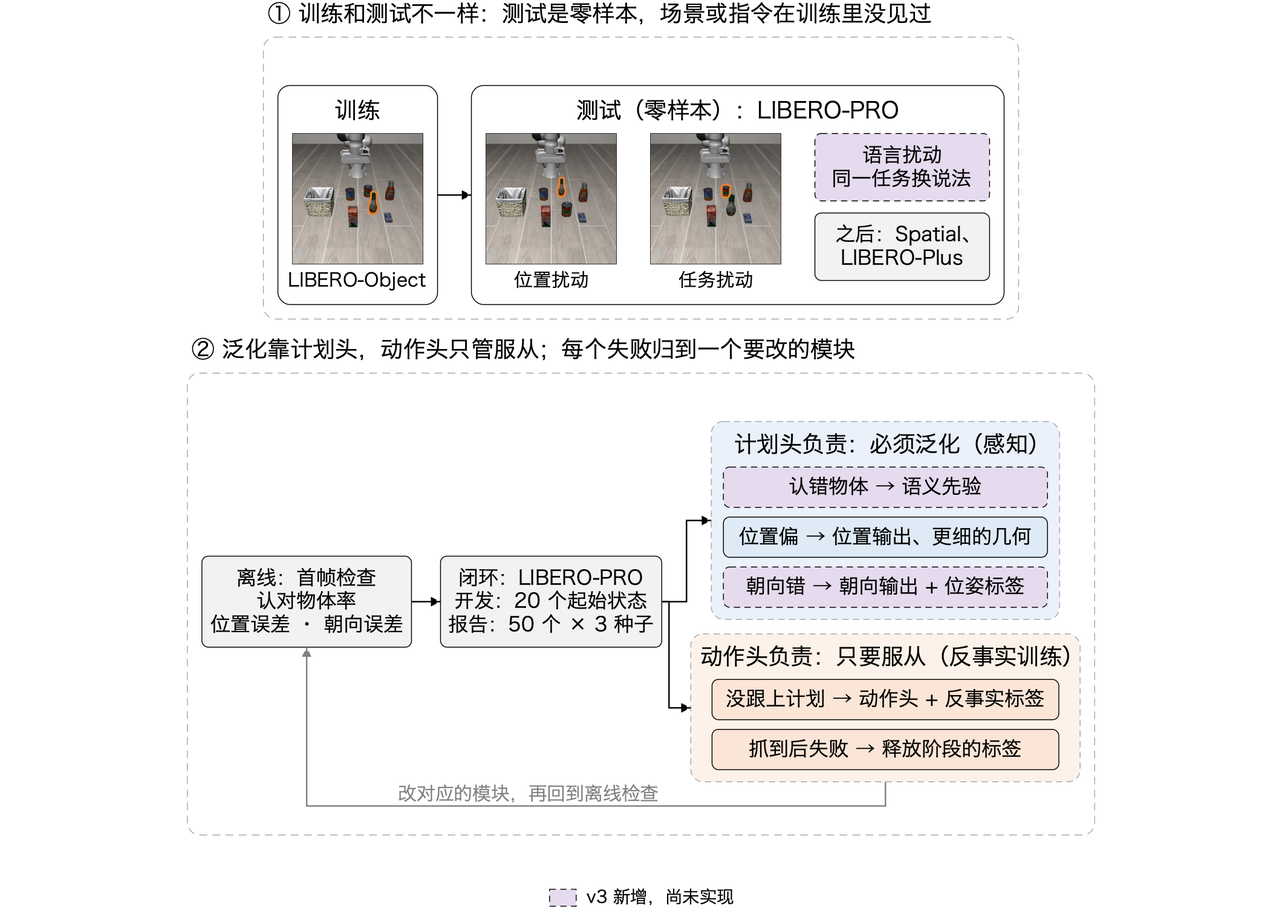
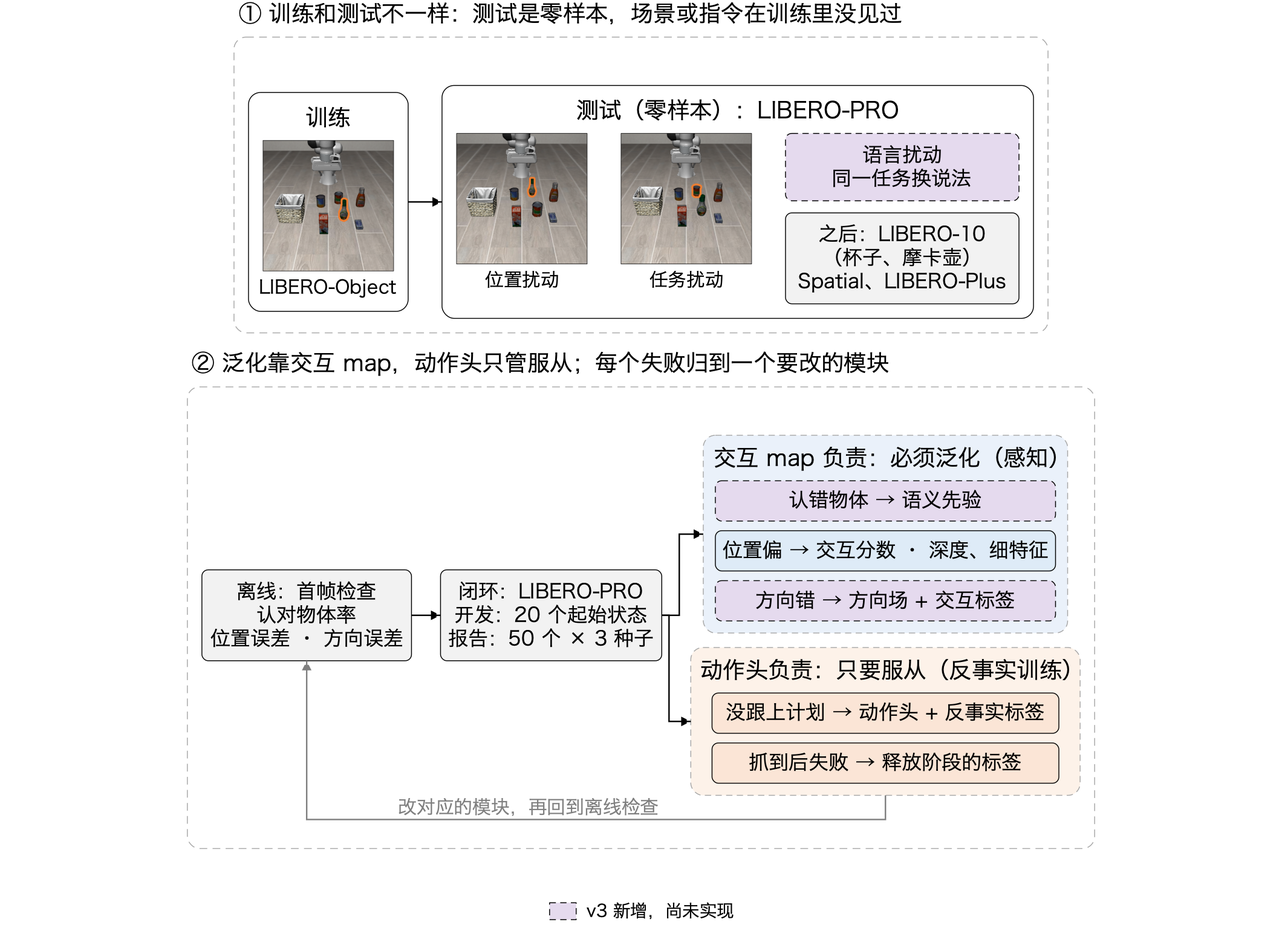
docs: put the interaction affordance map at the centre of Pipeline v3
The project lead confirmed the revision on 19 Nov. The plan head becomes an interaction affordance map head
that is learnt from gripper-object interaction and gives an interaction score, depth and a direction field
(the gripper closing direction). Contact and gripper orientation are decoded from the map instead of a
separate 6D regression. Labels come from demonstration grasps (L1) and from per-category canonical maps
projected by object pose (L2); object poses are used for labels and evaluation only, never as model input.
The first version is a 2D map, gripper orientation only; LIBERO-10 is added for objects with handles. The
experiment order becomes E0, E1 and L together, then E2 to E7. The three figures are redrawn to match.

diff --git a/docs/vla/2026-11-19_VLA_branch_Pipeline_v3.md b/docs/vla/2026-11-19_VLA_branch_Pipeline_v3.md
@@ -1,89 +1,90 @@
-# VLA Pipeline v3：语义 + 位置 + 朝向的 affordance 计划
+# VLA Pipeline v3：带方向的交互 affordance map + 服从它的动作头
 
-**状态：已确认（2026-11-19，项目负责人同意第 10 节的 6 条）。**
+**状态：已确认。**
+
+- 2026-11-19：项目负责人同意第 10 节的 6 条。
+- 同日晚：项目负责人确认修订，改为以交互 affordance map 为核心（第 10 节的 5 条）。
+
+**这份文件的作用：**
 
 - 它是本方向方法和实验的依据。之后的实验按第 5 节的顺序和通过标准做；要改方向，先改这份文件。
-- 三张图：测试时的模型（第 2 节）、训练（第 3 节）、泛化和诊断（第 4 节）。紫色虚线框是 v3 新增、还没实现的部分；图的规格和截图来源见[图的说明](../../report/media/pipeline_overview/README.md)。
-- 它取代 [Pipeline v2](2026-11-10_VLA_branch_Pipeline_v2.md) 的方法部分。以下内容继续有效：
-  - v2 的 benchmark、协议和算力部分；
-  - [README](README.md) 里 11-12 到 11-16 的决定。
+- 它取代 [Pipeline v2](2026-11-10_VLA_branch_Pipeline_v2.md) 的方法部分。v2 的 benchmark、协议和算力部分，以及 [README](README.md) 里 11-12 到 11-16 的决定，继续有效。
 - 它和 `docs/pipeline.md` 里记忆方向的"Pipeline v3"无关。
 
-## 1. 论点和泛化思路
+**三张图：**
+
+- 测试时的模型（第 2 节）；
+- 训练（第 3 节）；
+- 泛化和诊断（第 4 节）。
+
+图里紫色虚线框是 v3 新增、还没实现的部分。图的规格和截图来源见[图的说明](../../report/media/pipeline_overview/README.md)。
+
+## 1. 定位和泛化思路
 
 **论点不变：** affordance 只有在动作被训练成服从它时才有用（2026-11-12 的决定）。
 
-**v3 改的是 affordance 的内容。** 原来只有"抓哪里"，现在扩成三件事：
+**v3 的核心是带方向的交互 affordance map。** 这张 map 从夹爪和一类物体的交互中学来：
 
-- 认对哪个：语义；
-- 抓哪里：位置；
-- 夹爪怎么摆：朝向。
+- 它说明夹爪在哪里接触这个物体（交互分数）；
+- 也说明以什么方向夹（方向场）。
+
+物体不是对称的球时，比如杯子有把手，这张 map 本身就带着方向。计划（接触点和夹爪位姿）都从 map 解码出来，不另外回归。动作头只服从计划。
 
 **泛化的分工：**
 
-- 训练只用标准 LIBERO；测试是零样本，用 LIBERO-PRO 和 LIBERO-Plus。
-- **计划头负责泛化**：在新画面里认对物体、找准位置、给出朝向。这是感知问题。
-- **动作头只负责服从**：计划在哪就去哪，朝向是什么就转成什么。这一点靠反事实训练保证。
-- 因此**语义信息只加在计划头**。动作头不加语义模块；加了语义模块的动作头只作对照 F（第 6 节）。
+- 训练只用标准 LIBERO，测试零样本，用 LIBERO-PRO 和 LIBERO-Plus。
+- **交互 map 负责泛化。** 它要在新画面里认对物体、找准接触位置、给出方向，这是感知问题。
+- **动作头只负责服从。** 计划在哪就去哪，朝向是什么就转成什么，这一点靠反事实训练保证。
+- 因此，语义信息和方向信息都放在 map 这一侧，动作头不加这类模块。语义只在对照 F 里加到动作头（第 6 节）。
 
-每类失败对应一个模块，诊断和改进都按这张表走：
+**每类失败对应一个模块：**
 
-| 失败 | 归类 | 对应模块 |
+| 失败 | 归到 | 对应模块 |
 |---|---|---|
 | 指向了别的物体 | 语义 | M1 语义先验 |
-| 物体对，位置偏（格子选错、格内偏移不准、深度不准） | 几何 | M2 计划头；必要时 M2b 更细的几何特征 |
-| 位置对，夹爪朝向不对（抓滑、碰倒） | 位姿 | M2 的朝向输出 + M5 的位姿标签 |
-| 计划对，动作没跟上 | 服从 | M4 动作头 + M5 的反事实标签 |
-| 抓到之后，搬运或放置失败 | 后段 | 释放阶段的计划和标签（已有，继续做） |
+| 物体对，接触位置偏 | 几何 | M2 交互 map 的分数和深度 |
+| 位置对，夹爪方向不对（抓滑、碰倒） | 方向 | M2 的方向场 + L 的交互标签 |
+| 计划对，动作没跟上 | 服从 | M4 动作头 + M5 反事实标签 |
+| 抓到之后，搬运或放置失败 | 后段 | 释放阶段的计划和标签（已有，继续） |
 
 ## 2. 管线
 
 ![v3 测试时的模型](../../report/media/pipeline_overview/v3_model.png)
 
-```
-画面 + 指令 ─► M0 VLM（冻结）─┬─► M1 语义先验：指令 token × 64 个格子 → 8×8 语义图
-                              │                 │ 加到格子打分上
-                              └─► M2 计划头 ◄────┘
-                                    每格：分数、格内偏移、深度、夹爪朝向（新）
-                                    全局：事件（抓 / 放 / 无）、接近方向
-                                         │ 最好的格子 + 相机标定 → 3D 接触点 + 朝向
-                                         ▼
-                                    M3 计划向量（10 → 16 维），计划保持（HOLD=1）
-                                         ▼
-                      VLM 特征 ─► M4 动作头（flow-matching DiT，LoRA）
-                                         ▼
-                                    7 维动作（Δ位置、Δ旋转、夹爪）→ OSC 控制器（逆运动学）
-
-训练标签：示范 → M5 按物体类别的抓取位姿
-          + 反事实（挪位置 / 换物体 / 转朝向），平移和旋转一起改写
-```
-
 | 模块 | 内容 | 状态 | 代码 |
 |---|---|---|---|
-| M0 VLM | starVLA QwenPI 官方权重，Qwen3-VL-4B。诊断和消融时冻结，主对比时全量微调 | 不变 | 不变 |
-| M1 语义先验 | 指令 token 和智能体视角 64 个格子 token 的余弦相似度，得到一张 8×8 语义图。这是 SemanticVLA ID-Pruner 里"语言 → 图像"的那一路。语义图乘一个从 0 开始学的系数，加到格子打分上。先用全部指令 token，不手工挑名词 | 新增 | 新文件 `affordance_vla/heads/semantic_prior.py`，`plan_grid.py` 加开关 |
-| M2 计划头 | 现有的 8×8 格子头，每格多输出一个夹爪朝向（6D 旋转表示） | 修改 | `affordance_vla/heads/plan_grid.py` |
-| M2b 更细的几何 | 16×16 格子，或者加 DINOv2 特征（SemanticVLA 里 DINOv2 那一路）。只在诊断说"位置偏"为主时才做 | 可选 | 待定 |
-| M3 计划向量 | 加上目标朝向（相对当前夹爪，6D），从 10 维变成 16 维。PlanEncoder 的输入变长，其余不变。计划保持不变 | 修改 | `affordance_vla/plan/plan_input.py`、`heads/plan_policy.py` |
-| M4 动作头 | 结构不变。旋转（动作第 3–5 维）单独报误差，必要时单独加权。这借了 SemanticVLA 把平移、旋转、夹爪分开的思路 | 基本不变 | `heads/plan_policy.py` |
-| M5 标签 | 抓取时刻夹爪相对物体的位姿，按物体类别汇总。反事实在 15 日的标签（s10）上加"转朝向"，动作的平移和旋转一起改写 | 修改 | `plan/plan_input.py`（ContactOffsets 加朝向）、`plan/caw_labels.py`、`training/plan_samples.py`、`training/counterfactual.py` |
+| M0 VLM | starVLA QwenPI 的官方权重，底座是 Qwen3-VL-4B。诊断和消融时冻结，主对比时全量微调 | 不变 | 不变 |
+| M1 语义先验 | 指令 token 和格子 token 的余弦相似度（借鉴 SemanticVLA 的 ID-Pruner），得到一张语义图，乘一个从 0 开始学的系数，加到交互分数上。指令方向的合并方式（求和还是取最大值）在 E1 里不训练、直接比较后选定 | 新增 | `affordance_vla/heads/semantic_prior.py` |
+| M2 交互 map 头 | 输入：VLM 各层的特征，以及更细的视觉特征。更细的特征先用 VLM 视觉编码器在合并之前的那一层（每边 16 块，不加新模型），不够再加 DINOv2。每个点输出交互分数、方向场（夹爪闭合方向，用 cos2θ 和 sin2θ 表示，所以转 180° 自动算同一种抓法）、深度。全局输出事件和接近方向，和现在一样 | 修改：现有的 8×8 格子头是它的第一版 | `affordance_vla/heads/plan_grid.py` 扩展，或新文件 `interaction_map.py` |
+| 解码 | 接触点：map 的峰值，加上深度和相机标定，得到 3D 位置。夹爪朝向：接近方向，加上峰值处的闭合方向。物体朝向：拿预测的 map 和这类物体的标准 map 比相似度，第二阶段再做 | 修改 | 同上 |
+| M3 计划向量 | 加上目标朝向（相对当前夹爪，6D 表示），从 10 维变成 16 维。计划保持不变 | 修改 | `affordance_vla/plan/plan_input.py`、`heads/plan_policy.py` |
+| M4 动作头 | 结构不变。旋转（动作第 3–5 维）单独报误差 | 不变 | `heads/plan_policy.py` |
+| M5 反事实标签 | 在 15 日的标签（s10）上加"转朝向"：先设绕竖直轴 ±45°，E0 之后再定。动作的平移和旋转一起改写 | 修改 | `training/plan_samples.py`、`training/counterfactual.py` |
+| L 交互 map 标签 | 见第 3 节 | 新增 | `affordance_vla/plan/interaction_labels.py` |
 | 执行 | OSC 控制器负责算关节，不训练正逆运动学 | 不变 | — |
 
-细节：
-
-- 平行夹爪绕接近轴转 180° 是同一种抓法，所以朝向损失取这两种朝向中较小的那个。
-- 新功能都做成命令行开关，默认关闭，以前的运行照样能复现（AGENTS.md）。建议的参数名：
-  - 计划头：`--semantic-prior`、`--orientation`；
-  - 动作头：`--orientation`、`--rotate-plan <度>`。
+新功能都做成命令行开关，默认关闭，这样以前的运行照样能复现（AGENTS.md）。
 
 ## 3. 训练
 
 ![v3 的训练](../../report/media/pipeline_overview/v3_training.png)
 
+### 交互 map 的标签（最关键的一步）
+
+| 来源 | 内容 | 成本 |
+|---|---|---|
+| L1 示范 | 每次抓取那一刻，用夹爪位姿（日志里已有 `ee_pos`、`ee_quat`）和物体分割图，得到"接触区域 + 闭合方向"的逐像素标签 | 只用 CPU，日志现成 |
+| L2 按类别的标准 map | 把同一类物体的所有抓取换到物体自己的坐标系里叠加，得到这类物体的标准交互 map，带方向。再按物体位姿投影到任何一帧、任何物体上。这样每一帧都有完整标签，对称物体会得到多个可行的抓法；"换物体"的反事实样本和 LIBERO-PRO 首帧也都有真值 | 要重新回放示范，补记物体位姿（只用 CPU，几个小时） |
+| L3 脚本抓取 | 换不同朝向去抓，记下成功和失败 | 暂不做 |
+
+**仿真里的物体位姿只用来生成标签和做评测，测试时不输入模型。**
+
+### 两个头的训练
+
 | 部分 | 数据 | 损失 | 规模 |
 |---|---|---|---|
-| 计划头 | `dataset10`，之后加 `dataset_spatial` | 现有：事件、格子、格内偏移、深度、接近方向。新增：朝向（测地角，取 180° 对称中较小的） | 冻结 VLM，单卡几千步 |
-| 动作头 | 同上，加反事实样本 | flow-matching 动作损失。平移和旋转的标签都按反事实改写 | 消融：LoRA，约 3100 万参数。主对比：全量微调（需要整机时段） |
+| 交互 map 头（含 M1） | `dataset10` 加上 L1、L2 的标签，之后再加 `dataset_spatial` | 交互分数：对标签分布（多个可行抓法）的交叉熵。方向场：只在接触区域内算 cos2θ、sin2θ 的 L2。深度：Huber。事件和接近方向：和现在一样 | 冻结 VLM，单卡几千步 |
+| 动作头 | 同上，加反事实样本 | flow matching 动作损失。平移和旋转的标签都按反事实改写 | 消融：LoRA，约 3100 万参数。主对比：全量微调（需要整机时段） |
 
 先在冻结的 VLM 上把各模块验证完，再做全量微调。
 
@@ -91,98 +92,129 @@
 
 ![v3 的泛化和诊断回路](../../report/media/pipeline_overview/v3_generalization.png)
 
-**离线检查**：便宜，每次改了计划头都先做。看 LIBERO-PRO 每个任务第一帧上计划头的输出：
+**离线检查**（便宜，每次改了 map 头都先做）：在 LIBERO-PRO 每个起始状态的第一帧上看 map 的输出。
 
-- **认对物体率**：最好的格子落在指令点名的物体上的比例，用仿真里物体的真值位置判断。
-- **认对时的位置误差**：沿视线方向和垂直视线方向分开算（现有的 plan audit）。
-- **抓取时刻的朝向误差**：单位是度。
+- **认对物体率：** map 的峰值落在指令点名的物体分割区域里的比例。
+- **位置误差：** 认对时沿视线方向和垂直视线方向分开算（现有的 plan audit）。
+- **闭合方向误差：** 单位是度，按 180° 对称取较小的。真值来自 L2。
+- **物体朝向误差：** 第二阶段再算。
 
-**闭环**：用 `scripts/eval/run_libero_pro_gpu.sh`。
+**闭环：** 用 `scripts/eval/run_libero_pro_gpu.sh`。
 
 - 开发阶段：LIBERO-PRO Object 的位置扰动（`_swap`）和任务扰动（`_task`），每个任务 20 个起始状态，种子 7。
-- 新加和语义相关的套件：语言扰动 `_lan`（同一个任务换一种说法）。物体扰动 `_object` 先核对套件内容再定。
-- 正式报告的数字用论文协议：50 个起始状态，种子 7、8、9。
+- 加测语言扰动 `libero_object_lan`。
+- 朝向的主要测试加一个有把手物体的任务集：LIBERO-10（杯子、摩卡壶）和它的 LIBERO-PRO 版本（`libero_10_*`）。LIBERO-Object 的物体接近对称，朝向信息不多。
+- 正式报告的数字按论文协议：50 个起始状态，种子 7、8、9。
 - 每个失败的 episode 归到第 1 节表里的一类，结果按任务报。
 
 ## 5. 实验顺序和通过标准
 
-**比较基准**是同协议下现有最好的组合：动作头 `s10_scale_own10` + 格子计划头 `g1` + 计划保持。20 个起始状态、种子 7 时：
+**比较的基准**是同协议下现有最好的组合：动作头 `s10_scale_own10` + 格子计划头 `g1` + 计划保持。20 个起始状态、种子 7 时：
 
-- 位置扰动 129/200，任务扰动 151/200；
-- 换成真值计划时，186/200 和 166/200。
+| 计划来源 | 位置扰动 | 任务扰动 |
+|---|---|---|
+| 格子计划头 `g1` | 129/200 | 151/200 |
+| 真值计划 | 186/200 | 166/200 |
 
-200 次试验在成功率 75% 左右时，一个标准差约为 6 次。
+在 200 次试验、成功率 75% 左右时，一个标准差约为 6 次。
 
 | 步 | 内容 | 算力 | 通过标准 | 不通过时 |
 |---|---|---|---|---|
-| E0 | **位姿假设检验**。用已有的日志比较抓取时刻的夹爪朝向：成功的抓取对失败的抓取，也和同一物体的示范比 | 只用 CPU | 失败抓取的朝向偏离示范，明显大于成功抓取（例如中位数差 10° 以上），而且和视频对得上 | 朝向分支（E4、E5）暂停，另找失败原因 |
-| E1 | **语义诊断**，分两部分：① 把 g1 在第一帧上的错误分成"认错物体"和"认对但位置偏"；② 不训练，直接看冻结 VLM 里指令 token 和格子的相似度图，是否落在点名的物体上 | 推理，单卡 | 这一步只做诊断，决定先做 E2 还是 E3 | — |
-| E2 | **语义先验**。训练计划头 `g2_semantic`（加 M1），配 s10 动作头 | 训计划头 + 闭环 | 离线的认对物体率提高，tomato sauce 不能再是 0% 选对格子。闭环位置扰动超过 129，任务扰动不低于 145 | 去掉 M1，转去做 E3 |
-| E3 | **更细的几何（M2b）**，只在 E1 说"位置偏"为主时做 | 同上 | 认对时的位置误差中位数下降，闭环标准同 E2 | 记录下来，不进主线 |
-| E4 | **位姿的上界**。比较两种真值计划：16 维（带朝向）和 10 维。动作头加"转朝向"的反事实。另外给真值朝向加噪声，看误差多大时成功率开始下降 | 训动作头 + 闭环 | 用真值计划时成功率提高，抓取失败和碰倒减少 | 朝向不进计划，只留作分析 |
-| E5 | **预测的朝向**。计划头加 `--orientation` | 训计划头 + 闭环 | 朝向误差小于 E4 测出的容忍范围，闭环结果高于 E2、E3 中最好的那个 | 用真值朝向的上界写进论文的分析部分 |
-| E6 | **同骨干基线**（见第 6 节） | 轻量训练 | — | — |
-| E7 | **推广**：LIBERO-Spatial（数据已备好）、其他任务集、按论文协议重跑、全量微调的主对比 | 整机时段，要提前通知 | 和论文里的数字并列 | — |
+| E0 | **位姿假设检验。** 用已有的日志比较抓取时刻的夹爪朝向：成功对失败，以及和同一物体的示范相比。第一版用世界坐标 | 只用 CPU | 失败抓取的朝向偏离示范，明显大于成功抓取（例如中位数差 10° 以上），而且和视频对得上。结果也用来定"转朝向"的角度范围 | 方向分支（E3、E5）暂停，在 Object 上另找失败原因；方向在有把手物体的任务集上再测 |
+| E1 | **语义诊断。** ① 把 g1 在首帧上的错误分成"认错物体"和"认对但位置偏"；② 不训练，看冻结 VLM 里指令 token 和格子的相似度图，比较求和与取最大值哪个更准地落在点名的物体上 | 推理，单卡 | 只是诊断：选定合并方式，决定 E2 的重点 | — |
+| L | **建交互 map 的标签（L1 + L2）。** 重新回放示范、补记物体位姿，生成每类物体的标准 map，检查同类物体之间的方向是否一致 | 只用 CPU，和 E0、E1 同时做 | 同一类物体多次抓取的闭合方向，在物体坐标系里聚成少数几簇；投影回画面后和示范帧对得上（看图检查） | 先查回放和投影 |
+| E2 | **语义先验。** 在现有的 8×8 头上加 M1（`g2_semantic`），配 s10 动作头 | 训练计划头 + 闭环 | 离线认对物体率提高，tomato sauce 不能再是 0% 选对格子。闭环位置扰动超过 129，任务扰动不低于 145 | 去掉 M1 |
+| E3 | **朝向的上界。** 真值朝向进计划（16 维）对比 10 维真值计划，动作头加 ±45° 的"转朝向"反事实；再给真值朝向加噪声，看误差到多大成功率开始下降 | 训练动作头 + 闭环 | 用真值计划时成功率提高，抓取失败和碰倒减少 | 朝向不进计划，只留作分析 |
+| E4 | **交互 map 头。** 更细的分辨率加方向场，用 L 的标签训练 | 训练 map 头 + 离线检查 | 认对物体率不低于 E2；位置误差中位数下降；闭合方向误差小于 E3 测出的容忍范围 | 先查标签和分辨率 |
+| E5 | **用 map 解码出的计划做闭环**，包括位置和朝向 | 闭环 | 高于 E2 的结果；在有把手物体的任务集上高于不带朝向的版本 | 真值朝向的上界写进论文的分析部分 |
+| E6 | **同骨干基线**（第 6 节） | 轻量训练 | — | — |
+| E7 | **推广：** LIBERO-Spatial（数据已备好）、LIBERO-10、按论文协议重跑、全量微调的主对比；然后做第二阶段：从 map 读物体朝向 | 整机时段要提前通知 | 和论文里的数字并列 | — |
 
-- 每个条件至少用 6 个起始状态，开发阶段用 20 个。
+- 每个条件至少 6 个起始状态，开发阶段用 20 个。
 - 结果按任务报，不只报总数。
-- E7 之前先查清一件事：官方权重在 Spatial 上的三个评测作业（166–168）为什么没有跑完。
+- E7 之前先查清：官方权重在 Spatial 上的三个评测作业（166–168）为什么没跑完。
 
 ## 6. 基线（同一个骨干）
 
 11-16 列过 5 个候选：
 
 - A：普通微调；
-- B：计划输入，但只用示范训练；
+- B：有计划输入，但只用示范训练；
 - C：affordance 只作辅助预测；
 - D：有反事实数据，但没有计划接口；
 - E：Fast Plans 的修法。
 
 v3 新增一个：
 
-- **F：隐式语义，没有 affordance。** 动作头只看和指令最相关的图像 token（把 SemanticVLA 的剪枝方式搬到我们的骨干上），不给计划，用普通示范训练。它回答的问题是："隐式的语义注意力够不够？为什么还要显式的 affordance？"
+- **F：隐式语义，没有 affordance。** 动作头只看和指令最相关的图像 token（SemanticVLA 的剪枝方式，搬到我们的骨干上），不给计划，用普通示范训练。
 
-**建议：** 选 B、D、E、F 四个。按 11-12 的决定第 3 条，消融可以用轻量训练。官方权重作为参考行。SemanticVLA 本身不进主表，只在相关工作里引用它在标准 LIBERO 上的 97.7%，原因是它用 OpenVLA-7B 骨干，也没有公开权重。
+**选定 B、D、E、F 四个**，官方权重作参考行。SemanticVLA 本身用 OpenVLA-7B，也没有公开权重，所以不进主表。
 
 ## 7. 不做的事
 
-- 不换到 OpenVLA 骨干，也不复现 SemanticVLA 整套。
-- 动作头里不加语义剪枝，这只在对照 F 里用。
+- 不换到 OpenVLA 骨干，不复现 SemanticVLA 整套。
+- 动作头里不加语义剪枝（只在对照 F 里用）。
 - 不训练正逆运动学。
-- 第一版不用外部的 6-DoF 抓取数据（ACRONYM 等）。E5 之后，如果新物体上的朝向泛化不够，再考虑。
-- episode 状态、记忆方向、人类视频继续不进主线（11-12 的决定）。
+- 第一版只做 2D 图像上的 map（加深度），不做 3D 点云上的 map。
+- 第一版只从 map 读夹爪朝向；读物体朝向放在第二阶段（E7 之后）。
+- 暂不做 L3 脚本抓取，也不用外部 6-DoF 抓取数据（ACRONYM 等）。
+- 测试时不把仿真里的物体位姿输入模型。
+- episode 状态、记忆方向、人类视频继续不在主线（11-12 的决定）。
 
 ## 8. 停止和调整规则
 
-- 原来的规则继续有效：扰动下预测的接触点到不了约 2 厘米，或者强基线没有留下提升空间，就换论点。
-- E0 不通过：朝向分支暂停。
-- E2 不通过：去掉语义先验。
-- E0 和 E2 都不通过：v3 退回现在的管线，只做 E6 和 E7。
-- 每一步的结果写进 `docs/vla/` 下的日期记录，并在本文件末尾的"进展"里加一行。
+- **原来的规则继续有效：** 扰动下预测的接触点到不了约 2 厘米，或者强基线不留提升空间，就换论点。
+- **E0 不通过：** Object 上的方向分支暂停，方向改到有把手物体的任务集上验证。
+- **E2 不通过：** 去掉语义先验。
+- **E4 的方向场学不出来：** 检查 L 的标签。仍然不行，就回退到每格回归朝向的做法。
+- **记录：** 每一步的结果写进 `docs/vla/` 的日期记录，并在本文件末尾的"进展"里加一行。
 
 ## 9. 时间（计划）
 
-- 11-20 到 11-26：E0、E1。
-- 11-27 到 12-10：E2，需要时做 E3。
-- 12-11 到 12-31：E4、E5。12 月中提前通知整机时段的需求。
-- 2027 年 1 月：E6、E7。1 月底到检查点，按 11-12 的决定判断投 NeurIPS 还是 IROS。
+| 日期 | 内容 |
+|---|---|
+| 11-20 – 11-26 | E0、E1、L（三者同时做） |
+| 11-27 – 12-10 | E2、E3 |
+| 12-11 – 12-31 | E4、E5；12 月中通知整机时段的需求 |
+| 2027 年 1 月 | E6、E7；1 月底到检查点，按 11-12 的决定判断投 NeurIPS 还是 IROS |
 
-## 10. 项目负责人确认的 6 条（2026-11-19）
+## 10. 项目负责人确认的事
+
+**2026-11-19，第一轮（6 条）：**
 
 1. 用 v3 作为之后的指导，取代 Pipeline v2 的方法部分。
-2. 第 5 节的实验顺序和通过标准。
-3. 基线定为 B、D、E、F 四个（原定选 3 个）。
-4. 测试里加 LIBERO-PRO 的 `_lan` 套件。
-5. LIBERO-Spatial 从"下一个"挪到 E7，先在 Object 上把 v3 的模块验证完再推广。这改动了 11-16 决定的第 1 条。
+2. 采用第 5 节的顺序和通过标准。
+3. 基线定为 B、D、E、F 四个。
+4. 测试加 LIBERO-PRO 的 `_lan` 套件。
+5. LIBERO-Spatial 挪到 E7。
 6. 恢复实验，从 E0、E1 开始。
+
+**2026-11-19 晚，修订（5 条，加上两条细节）：**
+
+1. 定位改为以带方向的交互 affordance map 为核心，计划从 map 解码。
+2. 标签用 L1 + L2：重新回放示范、补记物体位姿；物体位姿只用来生成标签和做评测；L3 暂不做。
+3. 第一版做 2D 图像上的 map（加深度），不做 3D 点云。
+4. 朝向的主要测试加一个有把手物体的任务集（LIBERO-10 和它的 LIBERO-PRO 版本）。
+5. 用 map 的相似度读物体朝向放在第二阶段，第一版只读夹爪朝向。
+
+两条细节：
+
+- 语义图的合并方式在 E1 里不训练、直接比较求和与取最大值，选落在点名物体上更准的那种。
+- "转朝向"先设绕竖直轴 ±45°，等 E0 看失败抓取的朝向偏了多少再定。
 
 ## 进展
 
-- 2026-11-19：项目负责人确认第 10 节的 6 条；画了三张图，更新了 [README](README.md)。开始 E0 之前，项目负责人还有问题要问。
+- 2026-11-19：项目负责人确认第一轮的 6 条；画了三张图，更新了 [README](README.md)。
+- 2026-11-19 晚：项目负责人确认以交互 affordance map 为核心的修订；文档和三张图已按修订更新。下一步：E0、E1、L。
 
 ## 参考
 
-- SemanticVLA（AAAI 2026 oral）：[arXiv 2511.10518](https://arxiv.org/abs/2511.10518)，[代码](https://github.com/iLearn-Lab/AAAI26-SemanticVLA)。
-  - 借用的部分：指令和图像块的相似度（ID-Pruner）、DINOv2 的几何特征、平移 / 旋转 / 夹爪分开表示。
-  - 不借用的部分：它的骨干，以及在动作头里剪枝。
-- 图：`report/media/pipeline_overview/` 下的 `v3_model.png`、`v3_training.png`、`v3_generalization.png`。11-18 只加了朝向的方案图 `pose_plan_pipeline.png` 留作记录，已被这三张图取代。
+- **SemanticVLA**（AAAI 2026 oral）：[arXiv 2511.10518](https://arxiv.org/abs/2511.10518)，[代码](https://github.com/iLearn-Lab/AAAI26-SemanticVLA)。借鉴的部分：指令和图像块的相似度（ID-Pruner）、更细的视觉特征。
+- **带方向的 affordance 和类别级迁移：**
+  - GG-CNN：逐像素的抓取质量、角度（cos2θ、sin2θ）和宽度；
+  - Where2Act：逐像素的可操作性和动作方向；
+  - Dense Object Nets、Neural Descriptor Fields：用描述子相似度把同类物体上的抓法和朝向迁移到新物体；
+  - kPAM：类别级关键点给出物体朝向。
+
+  这几篇凭记忆列出，写论文前要核实全文。
+- **图：** `report/media/pipeline_overview/` 下的 `v3_model.png`、`v3_training.png`、`v3_generalization.png`。11-18 只加了朝向的方案图 `pose_plan_pipeline.png` 留作记录，已被这三张图取代。

diff --git a/docs/vla/README.md b/docs/vla/README.md
@@ -1,6 +1,6 @@
 # VLA 方向文档
 
-本仓库（`affordance-vla`）的研究方向：改变 VLA 的训练方式，让动作服从 affordance 计划。计划由 VLA 上的计划头从画面和指令预测：认对哪个物体、抓哪里、夹爪怎么摆；动作头用反事实样本训练成服从计划。目标是在杂乱的桌面操作仿真里，对训练时没见过的布局和指令也能做对（LIBERO-PRO 零样本）。必须训练 VLA，这是和记忆方向（环境记忆系统）的区别。现行设计见下面的 [Pipeline v3](2026-11-19_VLA_branch_Pipeline_v3.md)。
+本仓库（`affordance-vla`）的研究方向：改变 VLA 的训练方式，让动作服从 affordance 计划。核心是一张带方向的交互 affordance map：它从夹爪和一类物体的交互中学来，说明认对哪个物体、在哪里接触、夹爪朝哪个方向；计划（接触点和夹爪位姿）从 map 解码，动作头用反事实样本训练成服从计划。目标是在杂乱的桌面操作仿真里，对训练时没见过的布局和指令也能做对（LIBERO-PRO 零样本）。必须训练 VLA，这是和记忆方向（环境记忆系统）的区别。现行设计见下面的 [Pipeline v3](2026-11-19_VLA_branch_Pipeline_v3.md)。
 
 **仓库拆分（2026-11-10）：** 本仓库由 [affordance3D](https://github.com/zniihgnexy/affordance3D) 的 `vla` 分支带着完整提交历史独立出来；记忆方向（`mem`）留在 affordance3D。拆分之前写的文档里：
 
@@ -12,17 +12,17 @@
 
 方法和实验以 [Pipeline v3](2026-11-19_VLA_branch_Pipeline_v3.md) 为准，要改方向先改那份文件。三张图分别讲测试时的模型、训练和泛化。紫色虚线框是 v3 新增、还没实现的部分，其余都已经在跑。图的规格和截图来源见[图的说明](../../report/media/pipeline_overview/README.md)。
 
-**测试时的模型。** 冻结的 VLM 读画面和指令。计划头对 8×8 个图像格子打分，给出"认对哪个、抓哪里、夹爪怎么摆"，压成 16 维计划，保持到夹爪动作完成。动作头读 VLM 特征，并按计划生成 8 步动作。
+**测试时的模型。** 冻结的 VLM 读画面和指令。交互 map 头给出每个点的交互分数、深度和方向场（夹爪闭合方向）；语义先验帮它认对指令说的物体。map 的峰值解码成 3D 接触点和夹爪朝向，压成 16 维计划，保持到夹爪动作完成。动作头读 VLM 特征，按计划生成 8 步动作。现在运行的是 map 头的第一版：8×8 格子，没有方向场。
 
 ![v3 测试时的模型](../../report/media/pipeline_overview/v3_model.png)
 
 **训练。** 两个头分开训练：
-- 计划头：标签全部来自示范记录。
+- 交互 map 头：标签来自夹爪和物体的交互。L1 是示范里抓取那一刻的夹爪位姿加物体分割图；L2 是按类别叠加的标准 map，再投影到每一帧。
 - 动作头：用反事实样本训练。画面不变，把计划挪走，动作标签跟着改写。这是本工作的核心。
 
 ![v3 的训练](../../report/media/pipeline_overview/v3_training.png)
 
-**泛化。** 只在标准 LIBERO 上训练，在 LIBERO-PRO 上零样本测试。泛化靠计划头，动作头只负责服从。每个失败的回合都归到一个要改的模块。
+**泛化。** 只在标准 LIBERO 上训练，在 LIBERO-PRO 上零样本测试。泛化靠交互 map，动作头只负责服从。每个失败的回合都归到一个要改的模块。
 
 ![v3 的泛化和诊断回路](../../report/media/pipeline_overview/v3_generalization.png)
 
@@ -69,6 +69,22 @@
   4. **测试加上 LIBERO-PRO 的语言扰动套件**（`libero_object_lan`）。
   5. **LIBERO-Spatial 挪到 E7**：先在 Object 上把 v3 的模块验证完。这改变了 11-16 晚决定第 1 条的顺序。
   6. **恢复实验，从 E0、E1 开始。** 开始之前，项目负责人还有问题要问。
+- **已决定（2026-11-19 晚，项目负责人，确认 [Pipeline v3](2026-11-19_VLA_branch_Pipeline_v3.md) 的修订）：**
+  1. **定位改为以带方向的交互 affordance map 为核心。**
+     - map 从夹爪和一类物体的交互中学来，给出交互分数、深度和方向场（夹爪闭合方向）。
+     - 计划（接触点和夹爪位姿）从 map 解码，不再单独回归 6D 朝向。
+  2. **标签用 L1 + L2：**
+     - L1：示范里抓取那一刻的夹爪位姿，加上物体分割图；
+     - L2：同一类物体的抓取叠加成标准 map，再按物体位姿投影到每一帧。为此要重新回放示范，补记物体位姿。
+     - 物体位姿只用来生成标签和做评测，测试时不输入模型。
+     - L3（脚本抓取）暂不做。
+  3. **第一版做 2D 图像上的 map（加深度），** 不做 3D 点云。
+  4. **朝向的主要测试加上有把手物体的任务集：** LIBERO-10 和它的 LIBERO-PRO 版本。
+  5. **用 map 的相似度读物体朝向放在第二阶段，** 第一版只读夹爪朝向。
+  6. **两条细节：**
+     - 语义图的合并方式在 E1 里不训练、直接比较求和与取最大值，选定其一；
+     - "转朝向"先设绕竖直轴 ±45°，等 E0 结果再定。
+  7. **新的实验顺序：** E0、E1、L 同时做，然后 E2 语义先验 → E3 朝向上界 → E4 交互 map 头 → E5 用 map 解码的计划做闭环 → E6 基线 → E7 推广。
 - **仓库整理与本机仿真（2026-11-17，项目负责人要求）：** 研究代码按 [AGENTS.md](../../AGENTS.md) 的要求维护（每个文件不超过 500 行、共享模块、配置驱动、每个实验一条命令）。代码包改名为 `affordance_vla`，按领域分子目录；脚本按用途分到 `scripts/`，环境放进 `envs/`；全部实验的命令和设置在 [EXPERIMENTS.md](../../EXPERIMENTS.md)。Mac 上可以在 MuJoCo 窗口里打开 LIBERO-PRO 场景、执行脚本抓取、逐步回放服务器上的测试，见[本机仿真](../local_simulation.md)。训练和评测的设置还没有挪进 `configs/`（AGENTS.md Part B）。
 - **近邻核实后的定位（2026-11-12，[R9](2026-11-12_VLA_branch_R9_服从性与反事实训练的近邻核实.md)）：**
   - "计划被动作头绕过"这个现象已经有人立住（Fast Plans, Faithful Actions），不能当贡献。

diff --git a/report/media/pipeline_overview/README.md b/report/media/pipeline_overview/README.md
@@ -6,13 +6,13 @@ the figures are real crops, and they live in this folder too.
 | Figure | What it shows | Status |
 | --- | --- | --- |
 | `pipeline_overview.png` | the pipeline as it runs now; it is the figure in the first section of `report/2026-11-16_weekly_review.ipynb` | current system |
-| `v3_model.png` | Pipeline v3 at test time: frozen VLM, then the plan head (which object, where, gripper orientation), then the 16-number plan and the action head | **guide since 19 Nov 2026** |
-| `v3_training.png` | how v3 trains its two heads: the plan head from demonstration labels, the action head from counterfactual samples | **guide since 19 Nov 2026** |
-| `v3_generalization.png` | v3 generalisation: trained on LIBERO-Object and tested zero-shot on LIBERO-PRO. The plan head has to generalise and the action head only has to obey. Each failure is traced back to one module | **guide since 19 Nov 2026** |
+| `v3_model.png` | Pipeline v3 at test time. The frozen VLM feeds the interaction affordance map head, which outputs an interaction score, depth and a direction field (gripper closing direction). A semantic prior picks the named object. The plan (contact and gripper orientation) is decoded from the map into 16 numbers, and the action head follows it | **guide since 19 Nov 2026** |
+| `v3_training.png` | How v3 trains its two heads. The map head learns from gripper-object interaction labels: L1 comes from demonstration grasps, L2 from per-category canonical maps projected by object pose (labels only). The action head learns from counterfactual samples | **guide since 19 Nov 2026** |
+| `v3_generalization.png` | v3 generalisation. Training is on LIBERO-Object and testing is zero-shot on LIBERO-PRO, with LIBERO-10 (mugs, moka pots) added later for orientation. The interaction map has to generalise; the action head only has to obey. Each failure is traced back to one module | **guide since 19 Nov 2026** |
 | `pose_plan_pipeline.png` | first proposal (18 Nov): adds only the gripper orientation; superseded by the v3 figures | record |
 
-The v3 figures belong to `docs/vla/2026-11-19_VLA_branch_Pipeline_v3.md`, which the project lead confirmed on
-19 Nov 2026. Purple dashed boxes mark what v3 adds and has not implemented yet. Every other part of the figures, and
+The v3 figures belong to `docs/vla/2026-11-19_VLA_branch_Pipeline_v3.md`. The project lead confirmed it on
+19 Nov 2026, together with the revision that evening that puts the interaction affordance map at its centre. Purple dashed boxes mark what v3 adds and has not implemented yet. Every other part of the figures, and
 all the crops, show the current system.
 
 | File | What it is |
